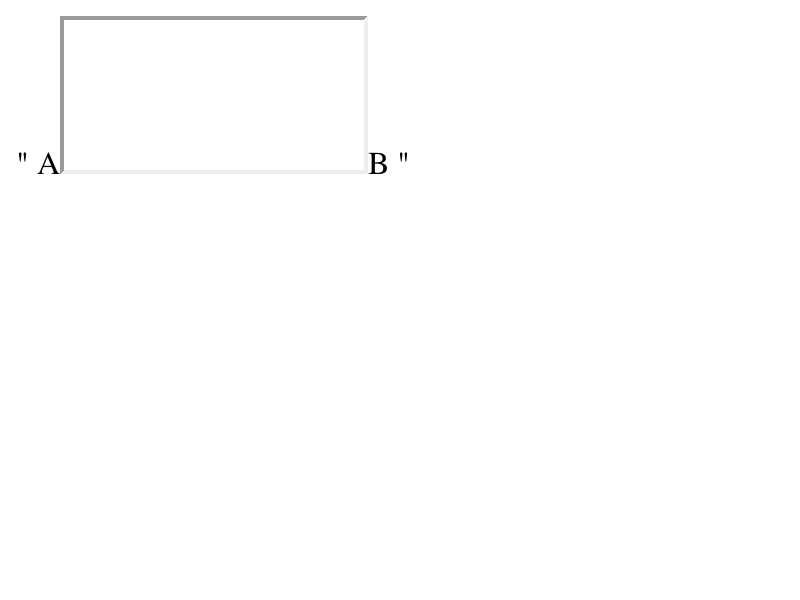
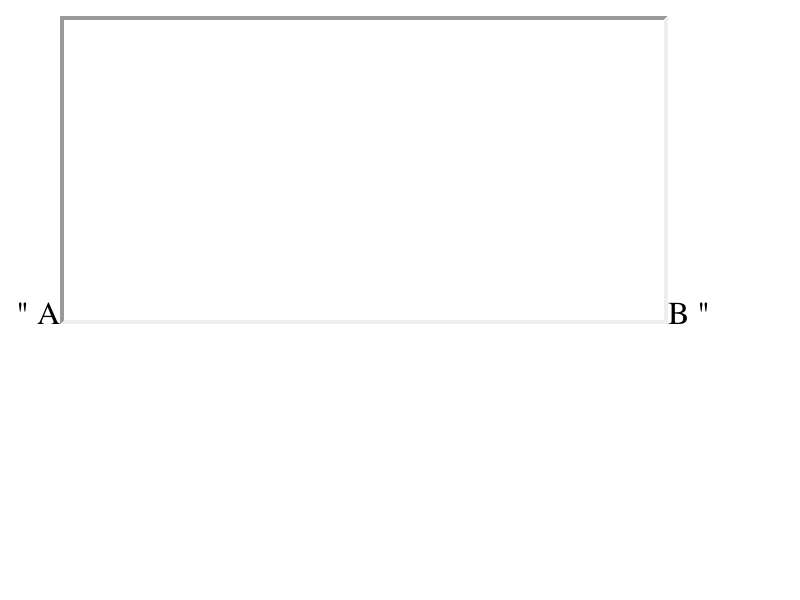
<img style='width: 100%' src='foo.svg'> gets pixellated when stretched https://bugs.webkit.org/show_bug.cgi?id=81631
Reviewed by Antti Koivisto.

Source/WebCore:

Final cleanup of RenderReplaced after the intrinsic size negotiation patch series from some weeks/months ago.
Stop tracking whether a RenderReplaced has an intrinsic size or not with an extra-bool, instead assume each
RenderReplaced derived class has an intrinsic size. If not, the class should override
computeIntrinsicRatioInformation() for any custom logic - currently only done by RenderImage.

Remove all logic depending on m_hasIntrinsicSize from computeReplacedLogicalWidth/Height, which was used
to support different sizing models depending on if the replaced element is a RenderImage or a RenderPart.
Unify all of this in computeIntrinsicRatioInformation right in RenderReplaced. This allows to remove
a hack from RenderImage::computeReplacedLogicalWidth(), which forced the synchroniziation of the intrinsicSize()
before calling the base classes RenderReplaced::computeReplacedLogicalWidth().
Now RenderImage just overrides the layout() method, calls RenderReplaced::layout() and then sets the container
size of the image resources to [contentWidth(), contentHeight()] - reflecting the actual result of the layout.
Furthermore this now allows us to unify CachedImage::imageSizeForRenderer() again for both SVG and non-SVG images.

Propagating the right container size to the image resource fixes the actual bug, that the SVGImage got pixellated.
[…]

diff --git a/svg/as-image/img-relative-height.html b/svg/as-image/img-relative-height.html
@@ -1,0 +1,6 @@
+<!DOCTYPE html>
+<html>
+<body style="margin: 0; height: 600px; overflow: hidden;">
+<img style='height: 100%;' src='resources/island.svg'>
+</body>
+</html>

diff --git a/svg/as-image/img-relative-height-expected.html b/svg/as-image/img-relative-height-expected.html
@@ -1,0 +1,6 @@
+<!DOCTYPE html>
+<html>
+<body style="margin: 0; overflow: hidden;">
+<img style='width: 800px; height: 600px' src='resources/island.svg'>
+</body>
+</html>

diff --git a/svg/as-image/img-relative-width-expected.html b/svg/as-image/img-relative-width-expected.html
@@ -1,0 +1,6 @@
+<!DOCTYPE html>
+<html>
+<body style="margin: 0; overflow: hidden;">
+<img style='width: 800px; height: 600px' src='resources/island.svg'>
+</body>
+</html>

diff --git a/svg/as-image/img-relative-width.html b/svg/as-image/img-relative-width.html
@@ -1,0 +1,6 @@
+<!DOCTYPE html>
+<html>
+<body style="margin: 0; overflow: hidden;">
+<img style='width: 100%;' src='resources/island.svg'>
+</body>
+</html>
